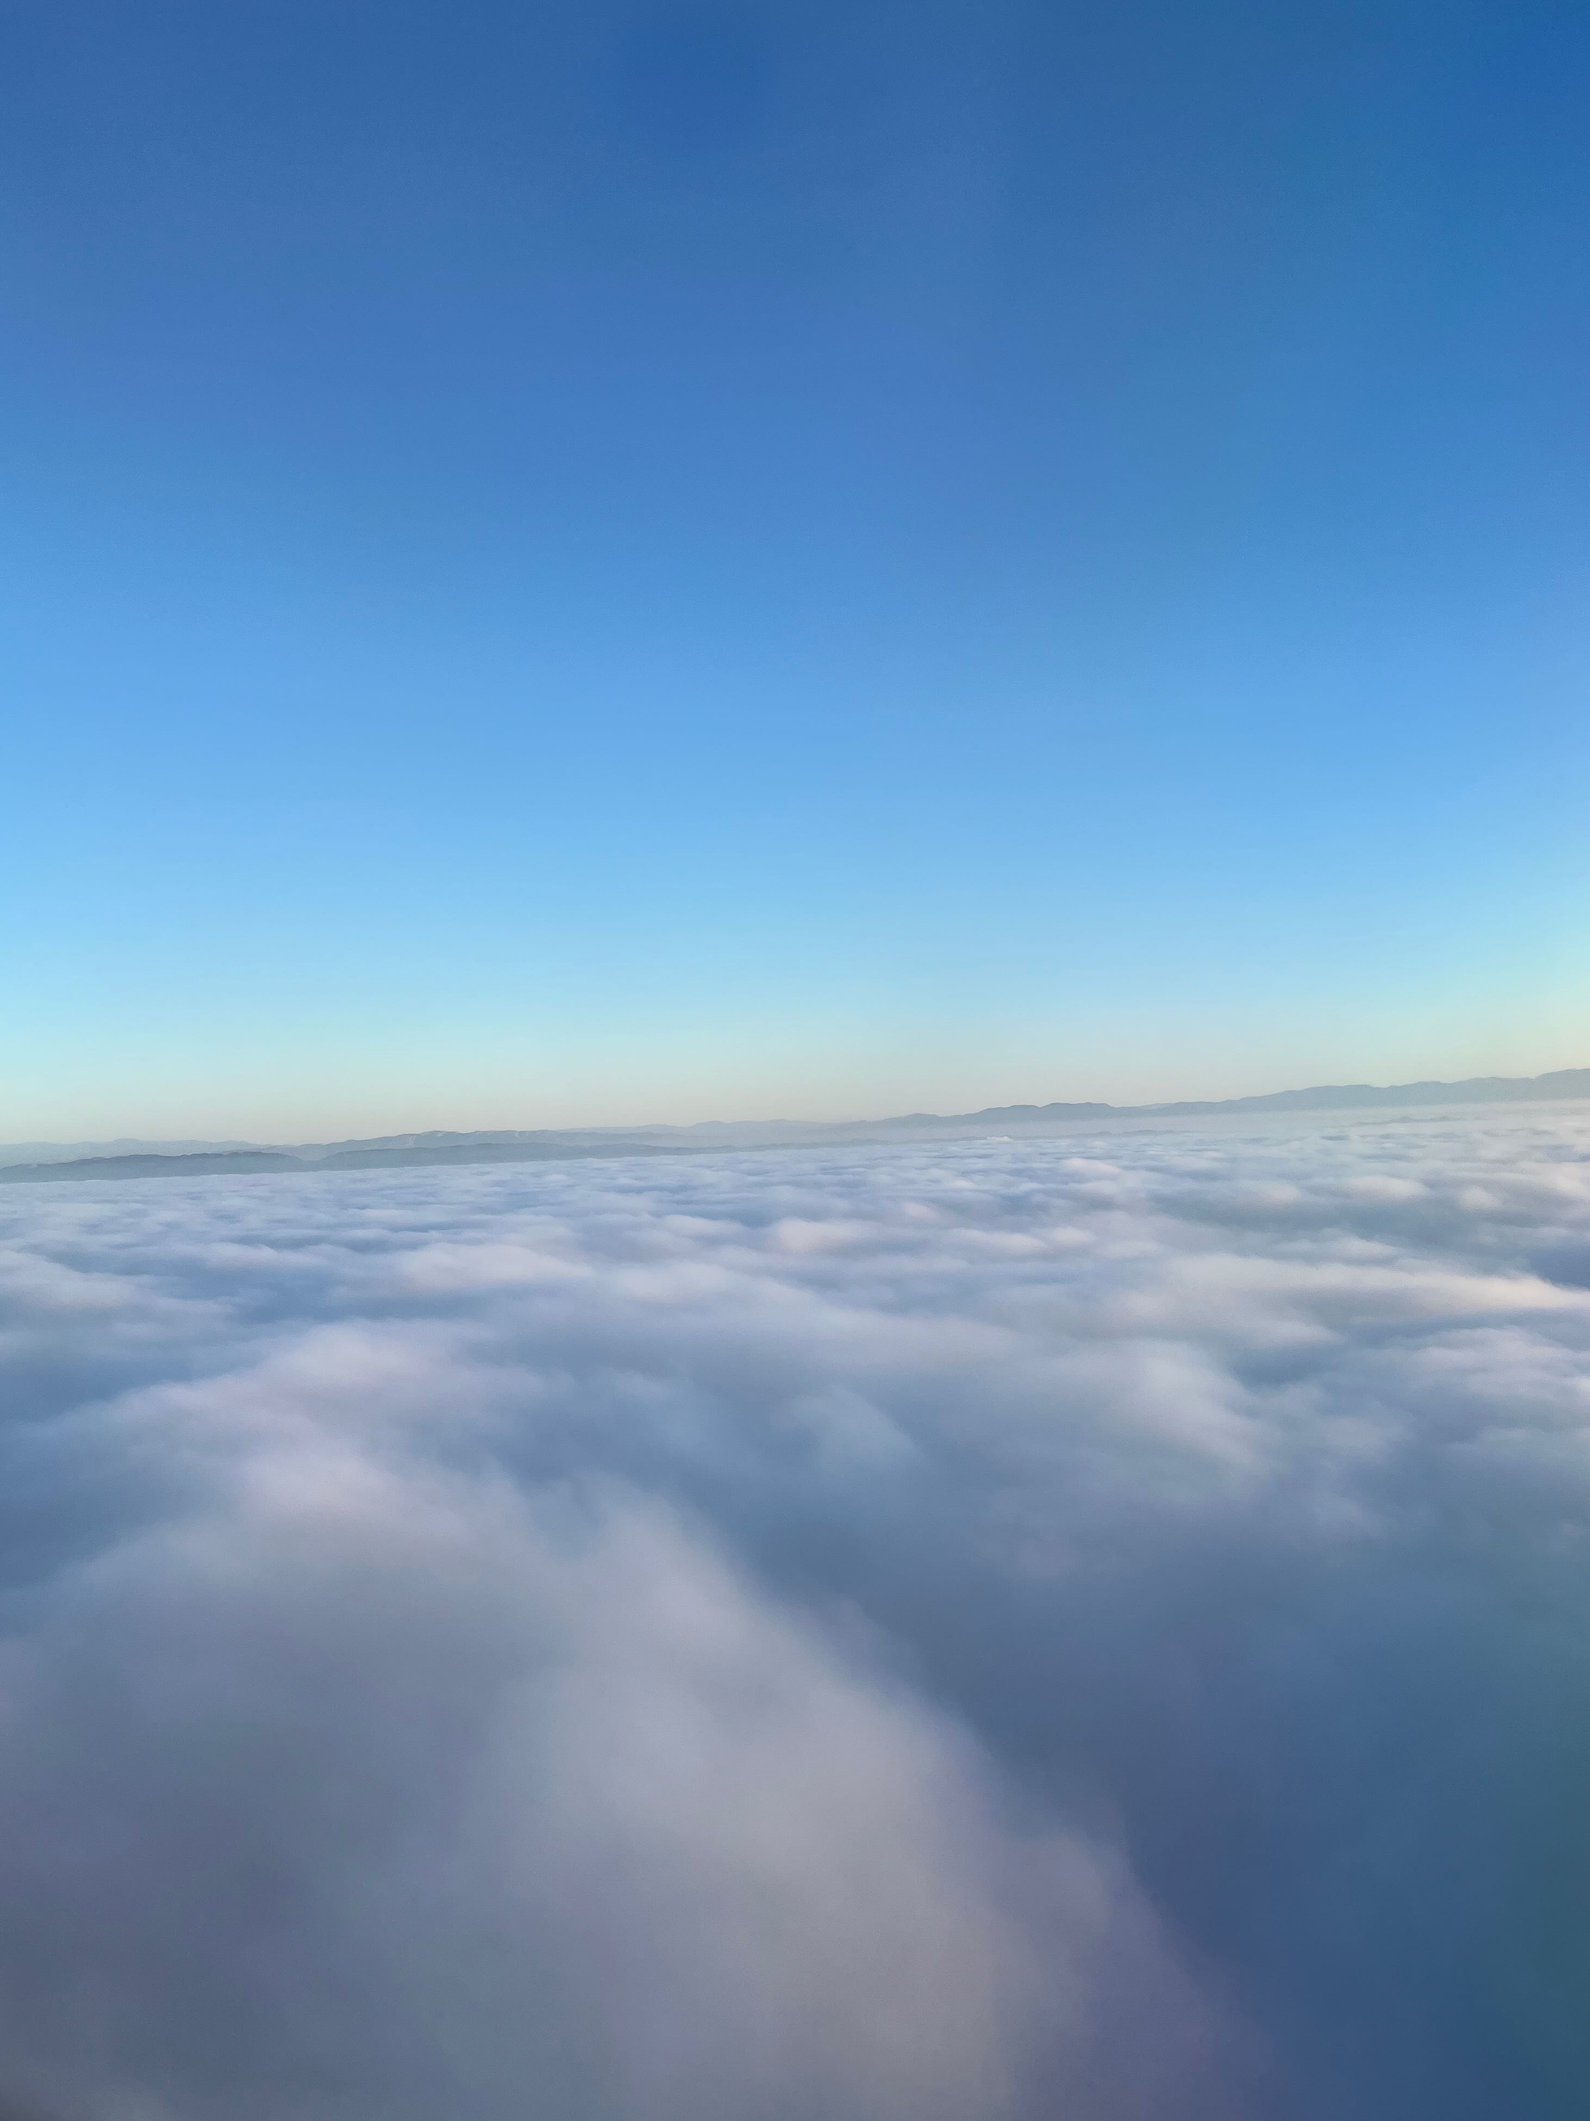
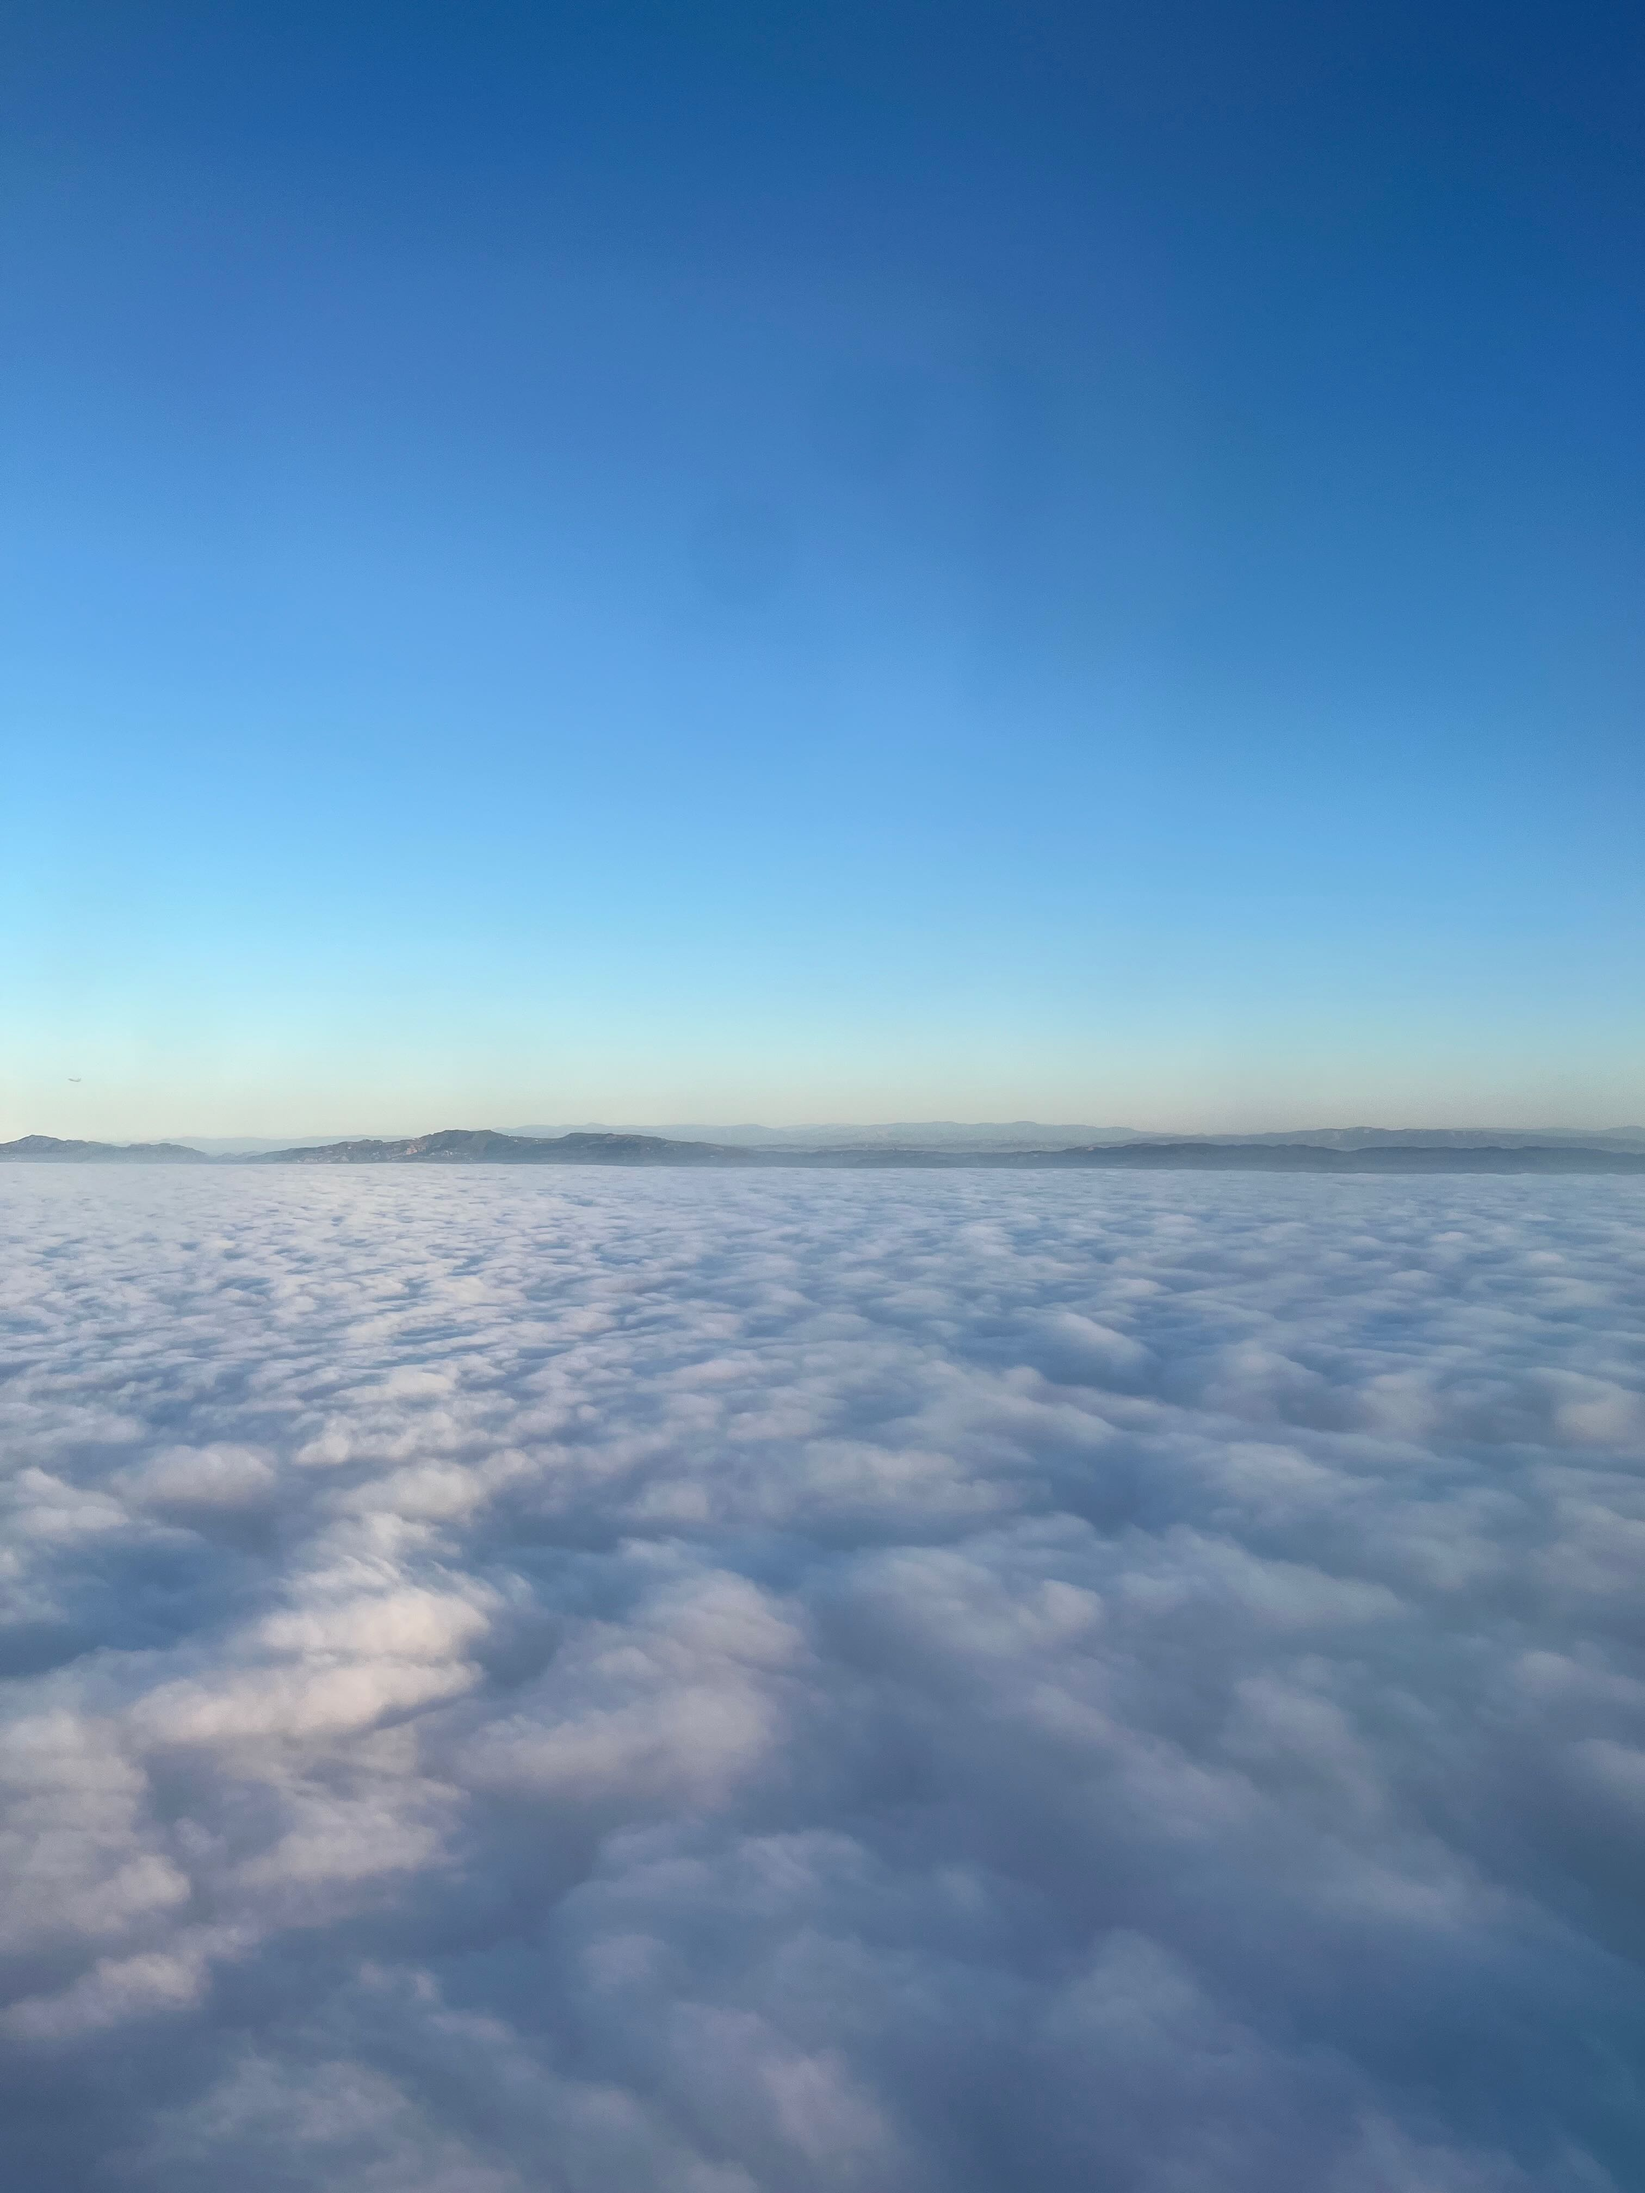
update

diff --git a/photography/index.html b/photography/index.html
@@ -178,6 +178,43 @@
 <p tabindex="0">A vibrant photo capturing the excitement of Super Nintendo World, offering a dynamic glimpse into the colorful attractions and immersive experiences.</p>
 
 </div>
+<div class="project"target="_blank" tabindex="0">
+      
+    <img src="observatory.jpeg" alt="A scenic view of mountains and trees in California."  tabindex="0">
+</a>
+<h3 tabindex="0"> Mountain and Tree View in California </h3>
+<p tabindex="0">A serene picture showcasing the natural beauty of California, with a majestic range of mountains in the background and tall, lush trees in the foreground. 
+</div>
+<div class="project"target="_blank" tabindex="0">
+      
+    <img src="cloud1.jpeg" alt="A view of clouds photographed from an airplane during a flight from California to North Carolina."  tabindex="0">
+</a>
+<h3 tabindex="0"> Aerial Cloud View from Flight</h3>
+<p tabindex="0">A breathtaking image taken at the beginning of the flight, capturing the soft, fluffy clouds from above during a journey from California to North Carolina. The photo highlights the vastness of the sky and the calm beauty of the cloud formations seen from the airplane window.
+</div>
+
+<div class="project"target="_blank" tabindex="0">
+      
+    <img src="cloud2.jpeg" alt="A view of clouds and mountains from an airplane at the start of a flight from California to North Carolina."  tabindex="0">
+</a>
+<h3 tabindex="0"> Flight View: Clouds and Mountains</h3>
+<p tabindex="0">A stunning photograph taken at the start of a flight from California to North Carolina, showcasing the soft, fluffy clouds and majestic mountain peaks below. This image beautifully captures the serene contrast between the rugged terrain and the peaceful sky as seen from the airplane window.
+</div>
+<div class="project"target="_blank" tabindex="0">
+      
+    <img src="flying1.jpeg" alt="A photograph capturing the divide between mountains and sandy terrain."  tabindex="0">
+</a>
+<h3 tabindex="0"> Mountain and Sand Divide</h3>
+<p tabindex="0">This photograph highlights the striking contrast between the towering mountains and the expansive sandy terrain. The image showcases nature's stark and beautiful divide, with the rugged mountain peaks meeting the soft sands below, creating a visually captivating landscape.
+</div>
+<div class="project"target="_blank" tabindex="0">
+      
+    <img src="flying2.jpeg" alt="A photograph showcasing various landforms with distinct shapes, captured from a plane."  tabindex="0">
+</a>
+<h3 tabindex="0"> Diverse Landforms and Their Unique Shapes</h3>
+<p tabindex="0">This image, taken from a plane, captures the contrast between different types of terrain, highlighting the unique shapes and formations of the landscapes below. The photograph emphasizes the natural diversity in land structure and geography from an aerial perspective.
+</div>
+
 </div>
   <!-- Footer Section -->
   <div class="footer"target="_blank" tabindex="0">
